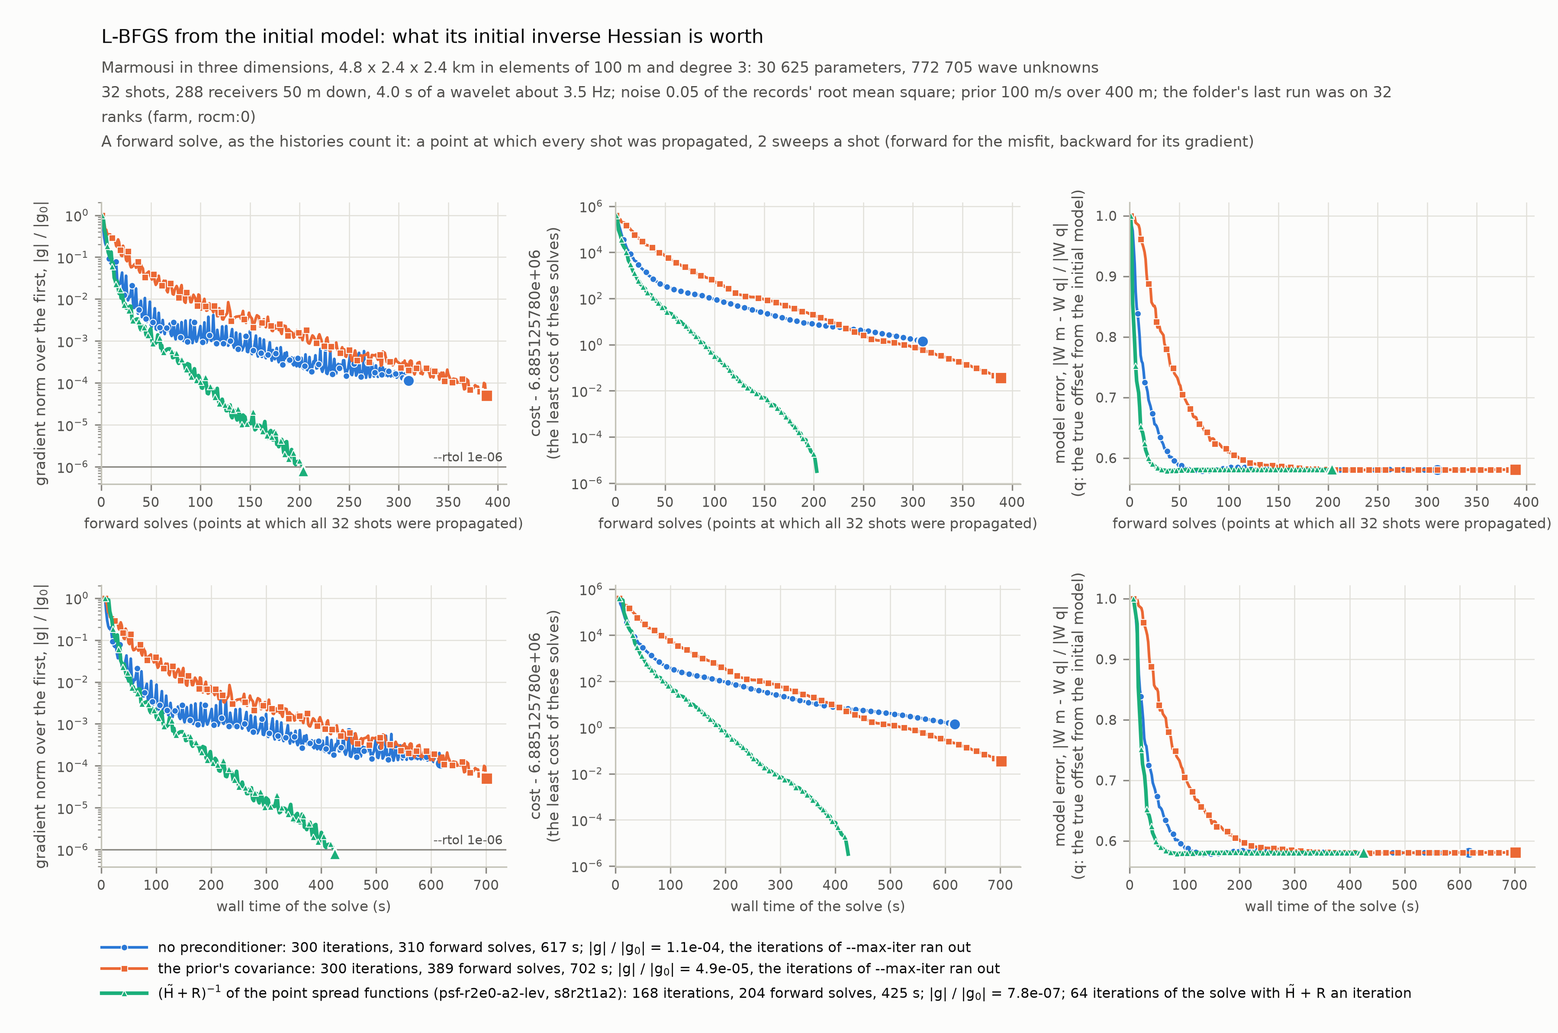
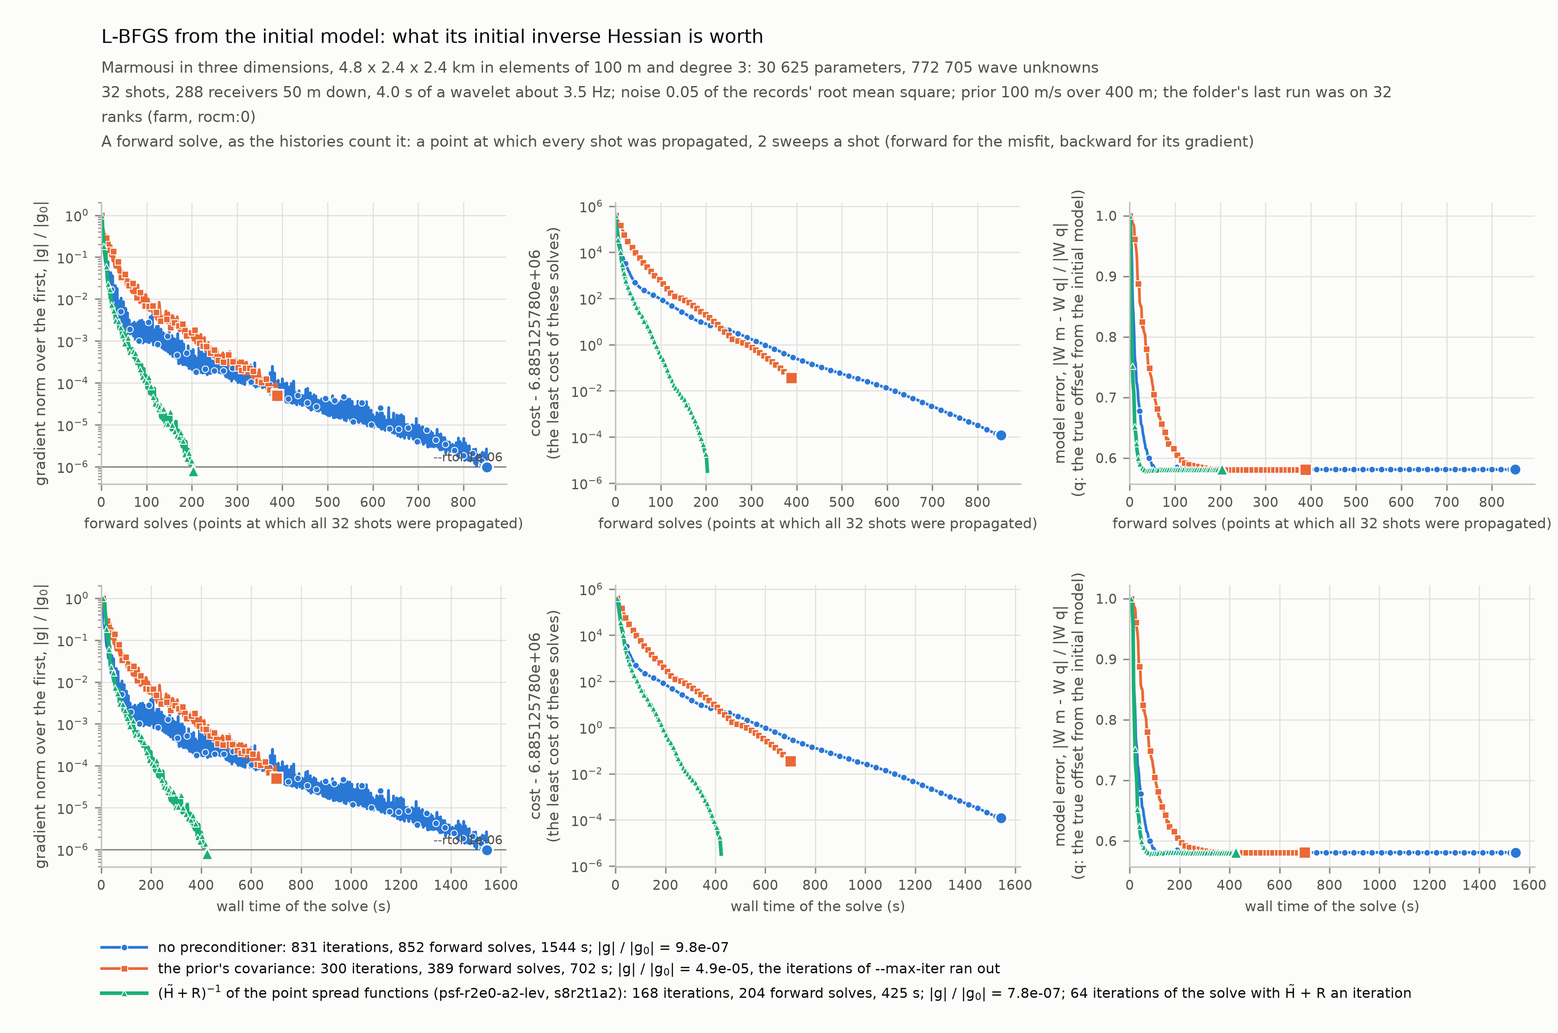
Marmousi: the 4096-GPU point with the final code, plain L-BFGS to the end, pictures in 3D
scale.py on 4096 GPUs of Frontier (783 billion wave unknowns) with the exchange of a step
behind its update keeps 92.8, 94.6 and 95.5 % of one GPU's step in the three sweeps, where
the step with the exchange between its halves keeps 87.0, 90.8 and 92.4 % in the same run.
L-BFGS without a preconditioner, run to 1000 iterations, reaches 1e-6 of the first gradient
after 852 propagations and 1544 s, against 204 and 425 s with the point spread functions.
movies.py records the pressure of one shot on three planes and draws the model in
perspective, a turn around it and the shot as animations.

diff --git a/applications/marmousi/movies.py b/applications/marmousi/movies.py
@@ -1,0 +1,276 @@
+"""Pictures of the example in three dimensions: the model on three planes of the box, a turn
+around it, and the wave field of one shot as it crosses the box.
+
+Two steps, as for ``figures.py``:
+
+    python movies.py record OUT [run.py's options of the problem] [--shot K] [--every N] [--spacing M]
+    python movies.py draw OUT [--folder RUN_FOLDER --tag TAG]
+
+``record`` needs the library and a GPU (or the host): it builds the problem of ``run.py``'s
+options (the defaults are the paper's box), sets the speed of the data (``c0 + W q_true``, or
+``c_true`` with ``--full-truth``), fires shot ``--shot`` (the one nearest the middle of the box
+by default), and keeps the pressure every ``--every`` steps at points ``--spacing`` metres apart
+on three planes through the source: the section along the line (``y`` of the source), the
+section across it (``x`` of the source) and a map at ``--map-depth``.  It also keeps the true
+and the initial speed on the same planes and on the lattice, in ``OUT/movie.npz``.  One GPU.
+
+``draw`` needs NumPy, Matplotlib and Pillow only: ``OUT/model3d.png`` (the true and the initial
+speed on the three planes in perspective; with ``--folder`` and ``--tag`` also the MAP point of
+that run folder of ``run.py``), ``OUT/turn.webp`` (a turn around the true model) and
+``OUT/wavefield.webp`` (the shot), animated WebP (Pillow; any browser plays them; ``--gif`` for
+GIF as well).
+"""
+import argparse
+import os
+import sys
+import time
+
+import numpy as np
+
+HERE = os.path.dirname(os.path.abspath(__file__))
+
+
+def planes(box, at, spacing, depth):
+    """Points of the three planes through ``at`` (x, y), ``spacing`` apart, inside the box:
+    ``{name: (points (n, 3), shape)}``."""
+    o, s = np.asarray(box.origin, dtype=np.float64), np.asarray(box.size, dtype=np.float64)
+    eps = 1e-6 * spacing
+    axis = [np.arange(o[k], o[k] + s[k] + eps, spacing) for k in range(3)]
+    axis = [np.clip(a, o[k] + eps, o[k] + s[k] - eps) for k, a in enumerate(axis)]
+    x, y, z = axis
+    out = {}
+    X, Z = np.meshgrid(x, z, indexing="ij")
+    out["along"] = (np.stack([X, np.full_like(X, at[1]), Z], -1).reshape(-1, 3), X.shape)
+    Y, Z = np.meshgrid(y, z, indexing="ij")
+    out["across"] = (np.stack([np.full_like(Y, at[0]), Y, Z], -1).reshape(-1, 3), Y.shape)
+    X, Y = np.meshgrid(x, y, indexing="ij")
+    out["map"] = (np.stack([X, Y, np.full_like(X, depth)], -1).reshape(-1, 3), X.shape)
+    return out, axis
+
+
+def record(argv):
+    ap = argparse.ArgumentParser(allow_abbrev=False, add_help=False)
+    ap.add_argument("out")
+    ap.add_argument("--shot", type=int, default=None)
+    ap.add_argument("--every", type=int, default=20, help="steps between the snapshots")
+    ap.add_argument("--spacing", type=float, default=25.0, help="metres between the points of a plane")
+    ap.add_argument("--map-depth", type=float, default=800.0, help="depth of the map, metres")
+    mine, rest = ap.parse_known_args(argv)
+    sys.path.insert(0, HERE)
+    import hippymfem as hm                               # noqa: F401  (first: it sets the device up)
+    from mpi4py import MPI
+    import jax
+    import jax.numpy as jnp
+    import run as runmod
+    from model import Problem, LocalPool
+
+    t_start = time.time()
+    args = runmod.parse(rest + ["--out", mine.out])
+    P = Problem(args)
+    comm = MPI.COMM_SELF
+    pool = LocalPool(comm, P)
+    lat = pool.lat
+    F = P.fields(lat, 0)
+    q = F.q_true if args.full_truth else F.window * F.q_true
+    pool._point(q)
+    eng, col = pool.eng, pool.col
+    src = np.asarray(P.sources)
+    mid = np.asarray(P.box.origin) + 0.5 * np.asarray(P.box.size)
+    shot = int(np.argmin(np.hypot(src[:, 0] - mid[0], src[:, 1] - mid[1]))) if mine.shot is None else mine.shot
+    at = src[P.shots[shot][0]]
+    eng.set_wavelets(P.wavelets(shot))
+    pts, axis = planes(P.box, at, mine.spacing, mine.map_depth)
+    ops = {}
+    for name, (p, shape) in pts.items():
+        op = P.box.value_operator(col, p, comm, P.order)
+        if op.index.size != p.shape[0]:
+            raise SystemExit("movies: %d of the %d points of the plane %s were not found" % (p.shape[0] - op.index.size,
+                                                                                         p.shape[0], name))
+        order = np.argsort(op.index)
+        ops[name] = (jax.device_put(jnp.asarray(op.w[order], dtype=eng.dtype), eng.device),
+                     jax.device_put(jnp.asarray(op.dof[order], dtype=jnp.int32), eng.device), shape)
+    print("movies: %s, shot %d at (%.0f, %.0f, %.0f) m; %s points on three planes; set-up %.1f s"
+          % ("x".join(str(int(v)) for v in P.box.n), shot, *at, sum(p.shape[0] for p, _ in pts.values()),
+             time.time() - t_start), flush=True)
+    value = jax.jit(lambda U, w, dof: jnp.sum(w * U[dof, 0], axis=1))
+    zero = lambda: jax.device_put(jnp.zeros((eng.nloc, 1), dtype=eng.dtype), eng.device)  # noqa: E731
+    U, Um = zero(), zero()
+    frames = {name: [] for name in ops}
+    times, n = [], 0
+    t0 = time.time()
+    while n < P.nsteps:
+        m = min(mine.every, P.nsteps - n)
+        U, Um, _, _ = eng._run(U, Um, range(n, n + m))
+        n += m
+        for name, (w, dof, shape) in ops.items():
+            frames[name].append(np.asarray(value(U, w, dof)).reshape(shape))
+        times.append(n * P.dt)
+    print("movies: %d steps of %.3f ms, %d snapshots in %.1f s" % (P.nsteps, 1e3 * P.dt, len(times), time.time() - t0),
+          flush=True)
+    # the speeds on the planes: the lattice's trilinear interpolant at the points
+    from scipy.interpolate import RegularGridInterpolator
+    x, y, z = F.x, F.y, F.z
+    speed = {}
+    for label, c in (("true", F.c0 + q), ("initial", F.c0)):
+        f = RegularGridInterpolator((z, y, x), c)
+        speed[label] = {name: f(p[:, ::-1]).reshape(shape) for name, (p, shape) in pts.items()}
+    os.makedirs(mine.out, exist_ok=True)
+    np.savez_compressed(
+        os.path.join(mine.out, "movie.npz"), t=np.array(times), source=at, x=axis[0], y=axis[1], z=axis[2],
+        map_depth=mine.map_depth, box_origin=np.asarray(P.box.origin), box_size=np.asarray(P.box.size),
+        lattice_x=x, lattice_y=y, lattice_z=z, lattice_true=F.c0 + q, lattice_initial=F.c0, window=F.window,
+        **{"field_" + k: np.stack(v).astype(np.float32) for k, v in frames.items()},
+        **{"%s_%s" % (lab, k): v for lab, d in speed.items() for k, v in d.items()})
+    print("movies: wrote %s in %.1f s" % (os.path.join(mine.out, "movie.npz"), time.time() - t_start))
+
+
+# ------------------------------------------------------------------------- drawing
+def _pieces(a, b, ia, ib):
+    """The four parts of a plane on the grid ``(a, b)`` cut at the indices ``ia`` and ``ib`` (both
+    parts keep the cut line): ``[(slice_a, slice_b)]``."""
+    return [(sa, sb) for sa in (slice(0, ia + 1), slice(ia, len(a))) for sb in (slice(0, ib + 1), slice(ib, len(b)))
+            if sa.stop - sa.start > 1 and sb.stop - sb.start > 1]
+
+
+def _fence(ax, d, values, cmap, norm, alpha=1.0):
+    """The three planes of ``d`` (``movie.npz``) coloured by ``values`` ({plane: array}), in
+    kilometres, depth down.  Each plane is cut in four along its lines with the other two, so
+    that Matplotlib, which orders whole surfaces by their mean depth, draws them back to
+    front."""
+    x, y, z = d["x"] / 1e3, d["y"] / 1e3, d["z"] / 1e3
+    sx, sy = d["source"][0] / 1e3, d["source"][1] / 1e3
+    md = float(d["map_depth"]) / 1e3
+    ix, iy, iz = (int(np.argmin(np.abs(v - w))) for v, w in ((x, sx), (y, sy), (z, md)))
+    kw = dict(rstride=1, cstride=1, shade=False, antialiased=False, linewidth=0, alpha=alpha)
+    V = values["along"]
+    for sa, sb in _pieces(x, z, ix, iz):
+        X, Z = np.meshgrid(x[sa], z[sb], indexing="ij")
+        ax.plot_surface(X, np.full_like(X, y[iy]), Z, facecolors=cmap(norm(V[sa, sb])), **kw)
+    V = values["across"]
+    for sa, sb in _pieces(y, z, iy, iz):
+        Y, Z = np.meshgrid(y[sa], z[sb], indexing="ij")
+        ax.plot_surface(np.full_like(Y, x[ix]), Y, Z, facecolors=cmap(norm(V[sa, sb])), **kw)
+    V = values["map"]
+    for sa, sb in _pieces(x, y, ix, iy):
+        X, Y = np.meshgrid(x[sa], y[sb], indexing="ij")
+        ax.plot_surface(X, Y, np.full_like(X, z[iz]), facecolors=cmap(norm(V[sa, sb])), **kw)
+    ax.set_xlim(x[0], x[-1])
+    ax.set_ylim(y[0], y[-1])
+    ax.set_zlim(z[-1], z[0])
+    ax.set_box_aspect((x[-1] - x[0], y[-1] - y[0], 1.5 * (z[-1] - z[0])), zoom=1.15)
+    ax.set_yticks(np.arange(np.ceil(y[0]), y[-1] + 1e-9, 1.0))
+    ax.set_zticks(np.arange(0.0, z[-1] + 1e-9, 1.0))
+    ax.set_xlabel("x (km)", labelpad=6)
+    ax.set_ylabel("y (km)", labelpad=2)
+    ax.set_zlabel("depth (km)", labelpad=2)
+
+
+def _coarse(values, step):
+    return {k: v[::step, ::step] for k, v in values.items()}
+
+
+def _save_animation(frames, path, ms, gif=False):
+    from PIL import Image
+    frames[0].save(path, save_all=True, append_images=frames[1:], duration=ms, loop=0, lossless=False, quality=85)
+    if gif:
+        frames[0].save(path.rsplit(".", 1)[0] + ".gif", save_all=True, append_images=frames[1:], duration=ms, loop=0)
+
+
+def _canvas_image(fig):
+    from PIL import Image
+    fig.canvas.draw()
+    return Image.fromarray(np.asarray(fig.canvas.buffer_rgba())[..., :3].copy())
+
+
+def draw(argv):
+    ap = argparse.ArgumentParser(allow_abbrev=False, add_help=False)
+    ap.add_argument("out")
+    ap.add_argument("--folder", default=None, help="a run folder of run.py on the same box, for its MAP point")
+    ap.add_argument("--tag", default=None, help="the MAP solve's tag in that folder")
+    ap.add_argument("--step", type=int, default=2, help="every step-th point of a plane is drawn")
+    ap.add_argument("--frames", type=int, default=72, help="frames of the turn")
+    ap.add_argument("--gif", action="store_true")
+    a = ap.parse_args(argv)
+    import matplotlib
+    matplotlib.use("Agg")
+    import matplotlib.pyplot as plt
+    from matplotlib import colors
+    d = dict(np.load(os.path.join(a.out, "movie.npz")))
+    sp = d["box_size"] / 1e3
+    st = a.step
+    cm = plt.get_cmap("viridis")
+    true = _coarse({k: d["true_" + k] for k in ("along", "across", "map")}, st)
+    init = _coarse({k: d["initial_" + k] for k in ("along", "across", "map")}, st)
+    norm = colors.Normalize(1500.0, 4000.0)
+    dd = dict(d)
+    for k in ("x", "y", "z"):
+        dd[k] = d[k][::st]
+    title = "Marmousi in three dimensions, %.1f x %.1f x %.1f km" % tuple(sp)
+    # ---- the model, in perspective
+    panels = [("true speed (of the data)", true), ("initial speed", init)]
+    if a.folder and a.tag:
+        from scipy.interpolate import RegularGridInterpolator
+        m = np.load(os.path.join(a.folder, "map_%s.npy" % a.tag))
+        W = np.load(os.path.join(a.folder, "window.npy"))
+        c0 = np.load(os.path.join(a.folder, "initial.npy"))
+        est = c0 + W * m
+        lz, ly, lx = (np.linspace(o, o + s, n) for o, s, n in zip(d["box_origin"][::-1], d["box_size"][::-1], est.shape))
+        if est.shape != d["lattice_true"].shape:
+            raise SystemExit("movies: the folder's lattice %s is not the movie's %s" % (est.shape, d["lattice_true"].shape))
+        f = RegularGridInterpolator((lz, ly, lx), est)
+        pts = {"along": np.stack(np.meshgrid(d["x"], [d["source"][1]], d["z"], indexing="ij"), -1)[:, 0],
+               "across": np.stack(np.meshgrid([d["source"][0]], d["y"], d["z"], indexing="ij"), -1)[0],
+               "map": np.stack(np.meshgrid(d["x"], d["y"], [d["map_depth"]], indexing="ij"), -1)[:, :, 0]}
+        panels.append(("MAP point (%s)" % a.tag, _coarse({k: f(v[..., ::-1]) for k, v in pts.items()}, st)))
+    fig = plt.figure(figsize=(6.0 * len(panels), 5.2))
+    for i, (label, vals) in enumerate(panels):
+        ax = fig.add_subplot(1, len(panels), i + 1, projection="3d")
+        _fence(ax, dd, vals, cm, norm)
+        ax.view_init(elev=22, azim=-58)
+        ax.set_title(label)
+    fig.subplots_adjust(left=0.0, right=0.9, top=0.9, bottom=0.08, wspace=0.0)
+    sm = plt.cm.ScalarMappable(norm=norm, cmap=cm)
+    fig.colorbar(sm, cax=fig.add_axes([0.92, 0.25, 0.012, 0.5]), label="wave speed (m/s)")
+    fig.suptitle(title + ": the section along the line through the source, the section across it, and a map %.1f km "
+                 "down" % (float(d["map_depth"]) / 1e3), fontsize=10)
+    fig.savefig(os.path.join(a.out, "model3d.png"), dpi=150)
+    plt.close(fig)
+    print("movies: wrote model3d.png", flush=True)
+    # ---- a turn around the true model
+    fig = plt.figure(figsize=(8, 5))
+    ax = fig.add_subplot(projection="3d")
+    imgs = []
+    for k in range(a.frames):
+        ax.clear()
+        _fence(ax, dd, true, cm, norm)
+        ax.view_init(elev=22, azim=-58 + 360.0 * k / a.frames)
+        ax.set_title(title + ", true speed (1500 to 4000 m/s)", fontsize=10)
+        imgs.append(_canvas_image(fig))
+    plt.close(fig)
+    _save_animation(imgs, os.path.join(a.out, "turn.webp"), 80, a.gif)
+    print("movies: wrote turn.webp (%d frames)" % len(imgs), flush=True)
+    # ---- the shot
+    fields = {k: d["field_" + k] for k in ("along", "across", "map")}
+    seis = plt.get_cmap("RdBu_r")
+    fig = plt.figure(figsize=(8, 5))
+    ax = fig.add_subplot(projection="3d")
+    imgs = []
+    for i, t in enumerate(d["t"]):
+        ax.clear()
+        top = max(float(np.percentile(np.abs(v[i]), 99.5)) for v in fields.values()) or 1.0
+        wn = colors.Normalize(-0.5 * top, 0.5 * top)
+        _fence(ax, dd, _coarse({k: v[i] for k, v in fields.items()}, st), seis, wn)
+        ax.scatter(*(d["source"][:2] / 1e3), d["source"][2] / 1e3, color="k", s=12)
+        ax.view_init(elev=22, azim=-58)
+        ax.set_title("one shot through the true model, t = %.2f s\n(pressure; each frame scaled to its own range)" % t,
+                     fontsize=9)
+        imgs.append(_canvas_image(fig))
+    plt.close(fig)
+    _save_animation(imgs, os.path.join(a.out, "wavefield.webp"), 60, a.gif)
+    print("movies: wrote wavefield.webp (%d frames)" % len(imgs), flush=True)
+
+
+if __name__ == "__main__":
+    if len(sys.argv) < 2 or sys.argv[1] not in ("record", "draw"):
+        sys.exit(__doc__)
+    (record if sys.argv[1] == "record" else draw)(sys.argv[2:])

diff --git a/applications/marmousi/README.md b/applications/marmousi/README.md
@@ -274,6 +274,11 @@ mpirun -n 32 ../../tools/mpirun_pinned.sh python run.py $T --out out/t --stages 
     --inner-precondition levels --inner-rtol 1e-3
 mpirun -n 32 ../../tools/mpirun_pinned.sh python run.py $T --out out/t --stages map --precondition none
 
+# pictures in three dimensions: the pressure of one shot on three planes (one GPU, a minute), then the model
+# in perspective, a turn around it and the shot as animations (NumPy, Matplotlib and Pillow)
+python movies.py record out/movie
+python movies.py draw out/movie
+
 # the box cut into the ranks' blocks in the place of the shots shared out
 mpirun -n 8 ../../tools/mpirun_pinned.sh python run.py $S --out out/blocks --layout decomposed --stages data,verify,psf
 
@@ -389,7 +394,7 @@ solves at which the gradient passes each power of ten of the first:
 
 | `--precondition` | 1e-1 | 1e-2 | 1e-3 | 1e-4 | 1e-5 | at the end | cost above the least after 100 solves |
 |---|---:|---:|---:|---:|---:|---|---:|
-| `none` | 8 | 27 | 87 | | | 1.1e-4 after 310 solves (300 iterations), 617 s | 94 |
+| `none` | 8 | 27 | 87 | 312 | 588 | 9.8e-7 after 852 solves (831 iterations), 1544 s | 94 |
 | `prior` | 25 | 84 | 208 | 353 | | 4.9e-5 after 389 solves (300 iterations), 702 s | 535 |
 | `psf`, mask of radius 2, `--psf-eta 0` | 12 | 28 | 63 | 111 | 165 | 2.0e-6 after 203 solves, 1501 s (its time limit) | 1 |
 | the same, `--inner-rtol 1e-3` | 12 | 28 | 60 | 109 | 166 | 3.1e-6 after 190 solves, 901 s (its time limit) | 1 |
@@ -400,8 +405,8 @@ solves at which the gradient passes each power of ten of the first:
 
 *The second table's solves without a preconditioner, with the prior, and with the operator as in its last row (`--psf-amplitude 2 --inner-precondition levels --inner-rtol 1e-3`), by `python figures.py FOLDER --only convergence`.*
 
-The point spread functions halve the solves to 1e-3 against no preconditioner and reach
-1e-4 and 1e-5 where neither of the others does in 300 iterations; the prior alone is the
+The point spread functions take a third of the solves of no preconditioner to 1e-4 and a
+quarter to 1e-6 (204 against 852, the latter from a second run of 1000 iterations at most); the prior alone is the
 worst, as in the paper (465 steps against 333 without one and 231 with the point spread
 functions there).  The first steps are the exception: to 1e-1 L-BFGS without a
 preconditioner takes 8 solves and with the operator 12.  Two choices made that difference,
@@ -418,7 +423,7 @@ at 5 ms each on the first rank's GPU, against 2 s for the sweeps of a solve on 3
 
 | `--precondition` | 1e-2 | 1e-3 | 1e-4 | 1e-5 |
 |---|---:|---:|---:|---:|
-| `none` | 58 | 175 | not in 617 | |
+| `none` | 53 | 160 | 566 | 1065 |
 | `prior` | 154 | 376 | 636 | not in 702 |
 | `psf`, `--inner-rtol 1e-3` | 132 | 278 | 510 | 782 |
 | the same with `--psf-amplitude 2` | 132 | 272 | 486 | 737 |
@@ -427,7 +432,9 @@ at 5 ms each on the first rank's GPU, against 2 s for the sweeps of a solve on 3
 
 With the inner solve's preconditioner `levels` (below) the operator is as fast as no
 preconditioner to 1e-2 and faster from there on: 1e-3 in 114 s where L-BFGS without one takes
-175 and with the prior 376, and 1e-6 in 425 s, which neither of them reaches.
+160 and with the prior 376, 1e-4 in 214 s against 566 and 636, and 1e-6 in 425 s against
+1544 s without a preconditioner.  (The row of `none` is from its second run, to 1000
+iterations; its first, to 300, took 58 and 175 s to 1e-2 and 1e-3.)
 
 What the operator still gets wrong, measured on the steps of these solves (the pairs of
 steps and gradient differences that L-BFGS keeps): its size.  It holds 0.4 of the Hessian's
@@ -457,6 +464,14 @@ node by hats in its own `u`, so the inverse follows the window from node to node
 57 iterations with the window, about 60 an L-BFGS iteration in the runs above against 750
 with the prior's, and is symmetric and positive by construction.
 
+![The true, the initial and the estimated wave speed of the small case on two sections and a map, in perspective](model3d.png)
+
+*The small case in three dimensions: the speed of the data, the initial model and the MAP
+point of the last row of the table (`--psf-amplitude 2 --inner-precondition levels`) on the
+section along the line through a source, the section across it and a map 0.8 km down
+(`python movies.py draw OUT --folder FOLDER --tag TAG`).  `movies.py` also makes animations:
+a turn around the model and the pressure of one shot crossing the three planes.*
+
 **The paper's box** (423 936 elements of 50 m, 11 626 825 wave unknowns, 444 185
 parameters; 138 shots of 2987 steps, 2208 receivers), a shot a GPU on 138 GPUs.  A forward
 sweep of a shot takes 4.1 s and the data of all shots 11 s; the products with the comb and
@@ -477,7 +492,7 @@ million wave unknowns, five absorbing faces; milliseconds a step and percent of 
 | 32 | 6 125 917 825 | 19.70 / 53.45 / 61.85 | 94.7 / 96.5 / 96.6 | 20.22 / 54.39 / 62.11 | 92.3 / 94.8 / 96.2 |
 | 64 | 12 246 522 625 | 20.13 / 54.58 / 62.57 | 92.7 / 94.5 / 95.4 | 20.74 / 55.56 / 63.17 | 90.0 / 92.8 / 94.5 |
 | 512 | 97 908 438 529 | 20.05 / 54.37 / 62.59 | 93.1 / 94.9 / 95.4 | 21.16 / 56.39 / 64.23 | 88.2 / 91.5 / 93.0 |
-| 4096 | 783 012 621 313 | | | 21.38 / 56.80 / 64.64 | 87.3 / 90.9 / 92.2 |
+| 4096 | 783 012 621 313 | 20.10 / 54.50 / 62.52 | 92.8 / 94.6 / 95.5 | 21.46 / 56.80 / 64.64 | 87.0 / 90.8 / 92.4 |
 
 Columns from the top to the bottom of the box (`--cells 384,384,48 --grid P,Q,1`), as many
 elements, 6 % faster a step than cubes on one GPU (17.60, 49.27, 57.46 ms):
@@ -495,9 +510,9 @@ adjoint identity holds to round-off in every run.  What the series loses is the 
 slowest GPUs' own work set the pace (18.4 to 19.5 ms).  Behind the update the exchange costs
 what the extra rows of the step cost, about half a millisecond on eight GPUs, so the
 default (`HIPPYMFEM_SEM_OVERLAP=auto`) takes it only where the exchange goes from GPU memory
-to GPU memory and a rank holds at least 16 million unknowns times the fields.  The 4096 row
-is the step before this change; on 4096 GPUs the forward sweep makes 3.7e13 unknown-updates
-a second, and the set-up of mesh, names and propagator takes 122 s (60 s on one GPU).  At a
+to GPU memory and a rank holds at least 16 million unknowns times the fields.  On 4096 GPUs
+the forward sweep makes 3.9e13 unknown-updates a second with the exchange behind the update,
+and the first series' set-up of mesh, names and propagator took 122 s (60 s on one GPU).  At a
 small load the exchange is not small (12 million unknowns a rank: 1.26 ms a step on one GPU
 and 1.54 to 1.58 on eight), which is why a box that one GPU holds is not cut and its shots
 are shared out.
@@ -512,6 +527,7 @@ a rank, sample points 16 apart, kernels of radius 8), milliseconds:
 | 32 | 227 673 985 | 94.4 | 93.6 % | 110.6 | 86.2 % |
 | 64 | 454 756 609 | 95.9 | 92.1 % | 114.6 | 83.1 % |
 | 512 | 3 630 961 153 | 97.6 | 90.5 % | 119.8 | 79.5 % |
+| 4096 | 29 019 350 017 | 98.8 | 89.4 % | 123.7 | 77.0 % |
 
 In columns on 512 GPUs the product takes 94.3 ms and the iteration 109.9.  In a product a
 rank waits only for its neighbours (two exchanges of a halo of 8 points, 4 to 8 ms); in an iteration of the solve it also waits at three inner products for every other

diff --git a/CHANGELOG.md b/CHANGELOG.md
@@ -42,8 +42,8 @@
   from products with white vectors, and `--inner-precondition levels` preconditions the
   inner solve by a factor whose symbol follows the window from node to node (about 60
   iterations where the prior's takes 750): with both, L-BFGS reaches 1e-6 of the first
-  gradient in 204 propagations and 425 s on 32 GPUs, where without a preconditioner it has
-  1.1e-4 after 310 propagations and 617 s.
+  gradient in 204 propagations and 425 s on 32 GPUs, where without a preconditioner it
+  takes 852 propagations and 1544 s.
 - **The seismic propagator for boxes** (`applications/seismic/sem.py`, defaults unchanged
   for the globe): first-order absorbing faces whose forward boundary values are kept for
   the backward sweep, a stiffness applied through slices of a 3D array of the unknowns on
@@ -52,9 +52,9 @@
   from one shot to the next, and the exchange of a step behind its update
   (`HIPPYMFEM_SEM_OVERLAP`, `auto` by default where the exchange goes from GPU memory to
   GPU memory and a rank holds at least 16 million unknowns times the fields): the same
-  bits as before, and on 512 GPUs of Frontier 93 to 95 % of one GPU's step for cubes of
-  192 million unknowns a rank and 99 to 100 % for columns (88 to 93 % and 95 to 98 %
-  without it).  The globe of the seismic application on 8 GPUs takes the same 154 ms a
+  bits as before, and on 4096 GPUs of Frontier (783 billion unknowns) 93 to 96 % of one
+  GPU's step for cubes of 192 million unknowns a rank (87 to 92 % without it), on 512 GPUs
+  99 to 100 % for columns (95 to 98 %).  The globe of the seismic application on 8 GPUs takes the same 154 ms a
   step with it, and 1 % less with two fields.
 - **The two applications on AMD cards, and their weak scaling to 4096 GPUs of Frontier**
   (MI250X; a rank has one of a card's two GPUs).  The seismic propagator is JAX and ran
